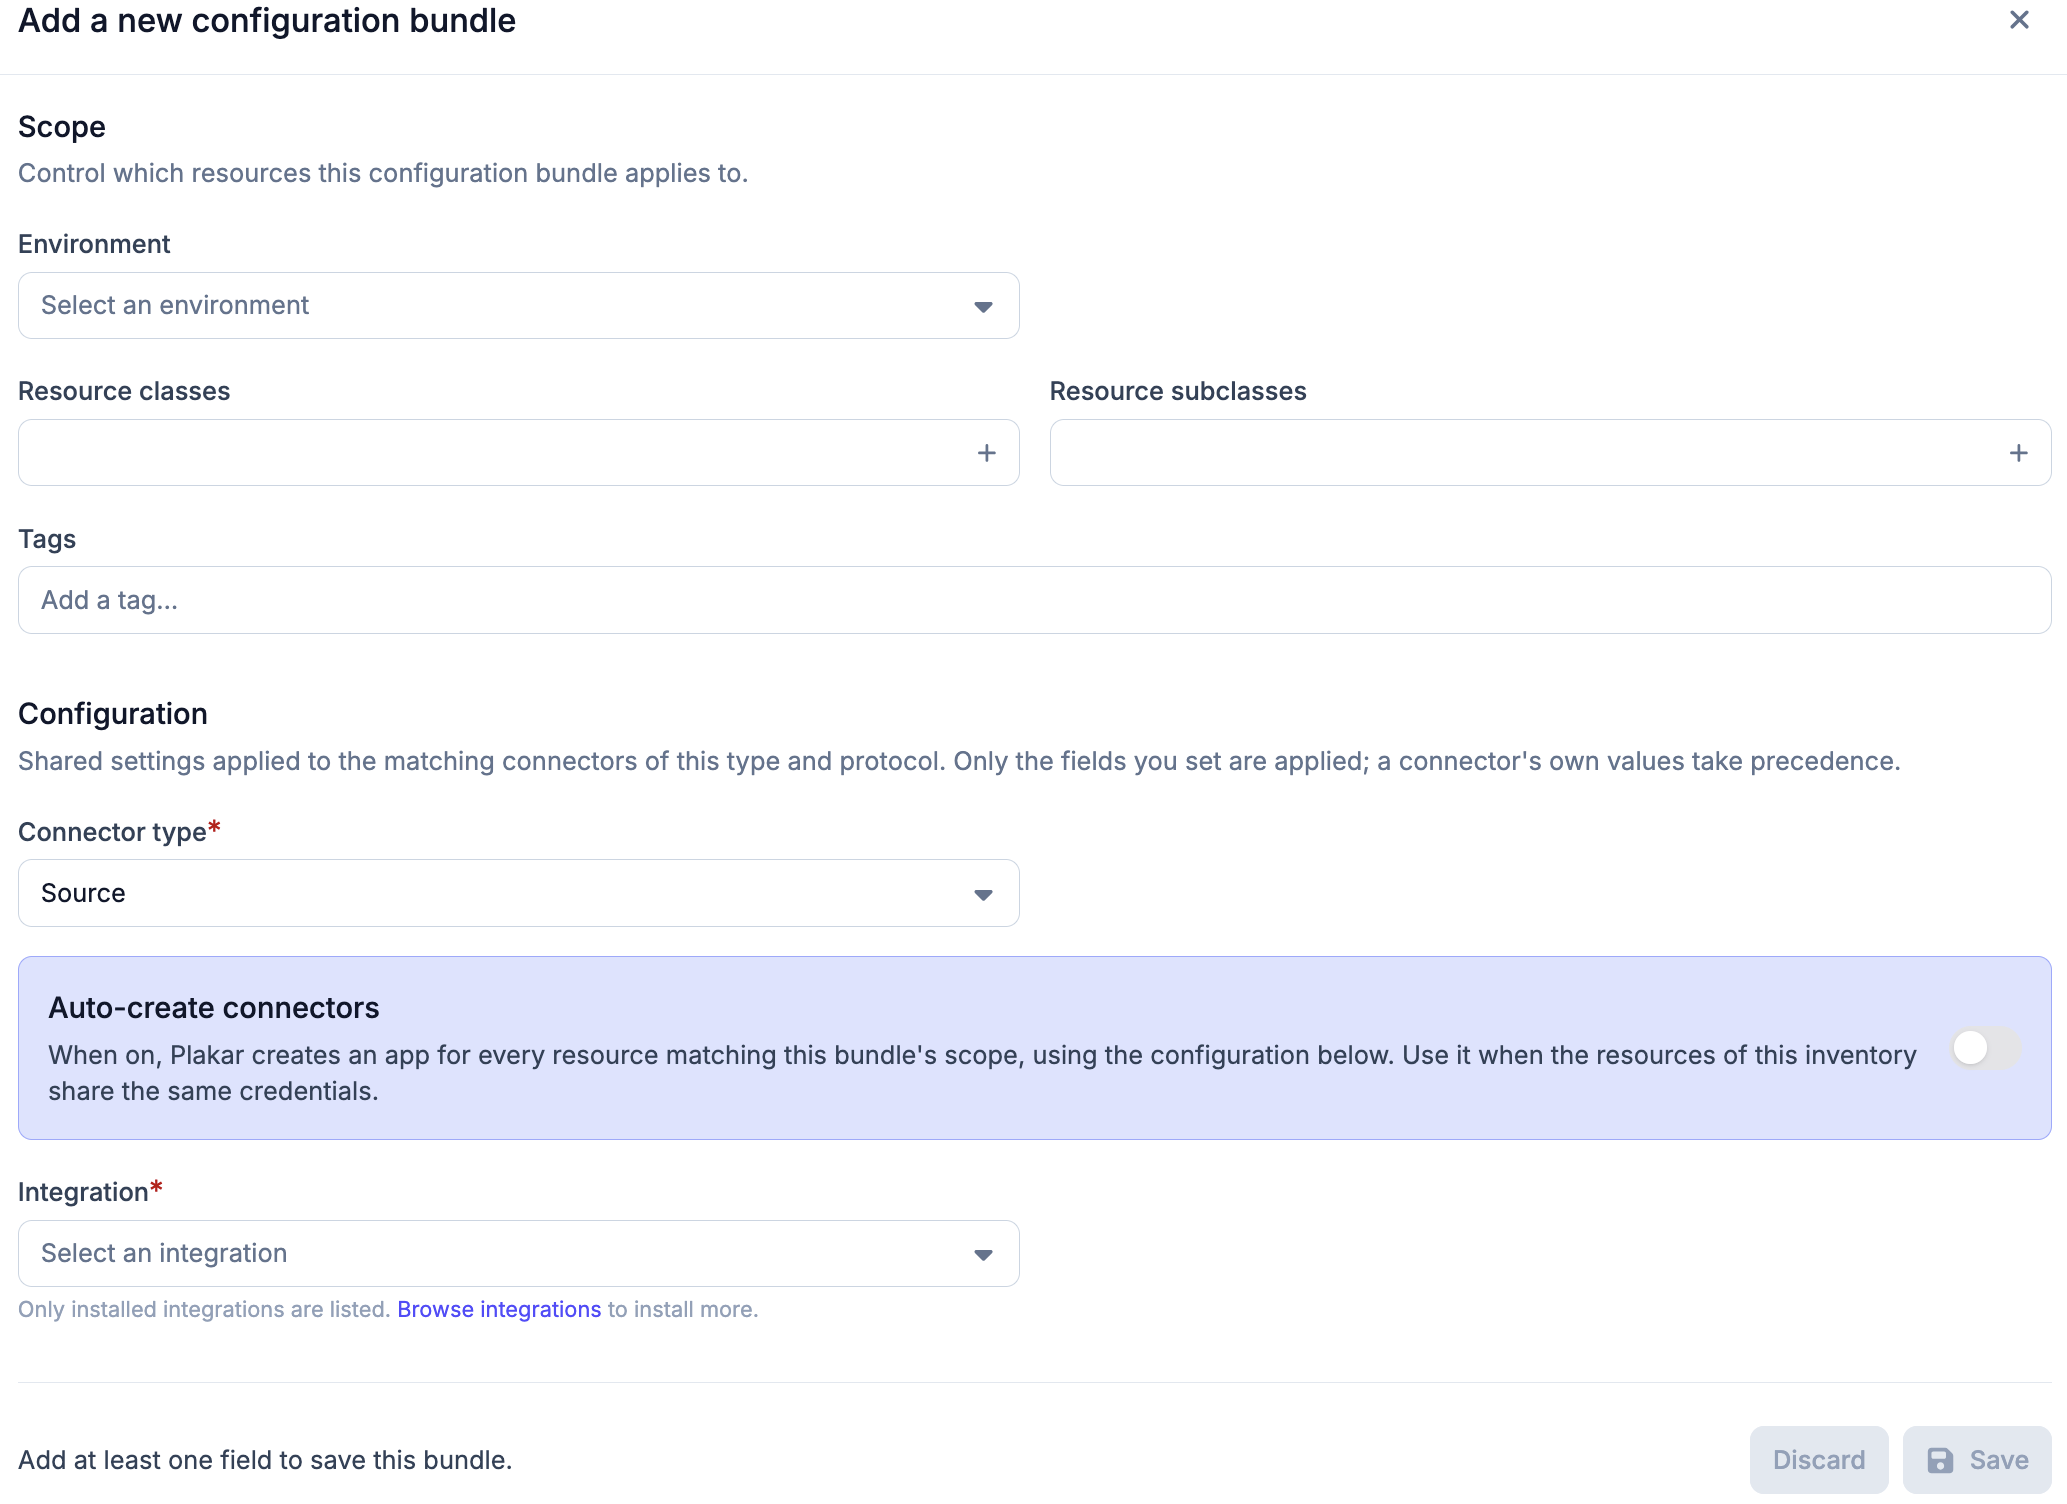
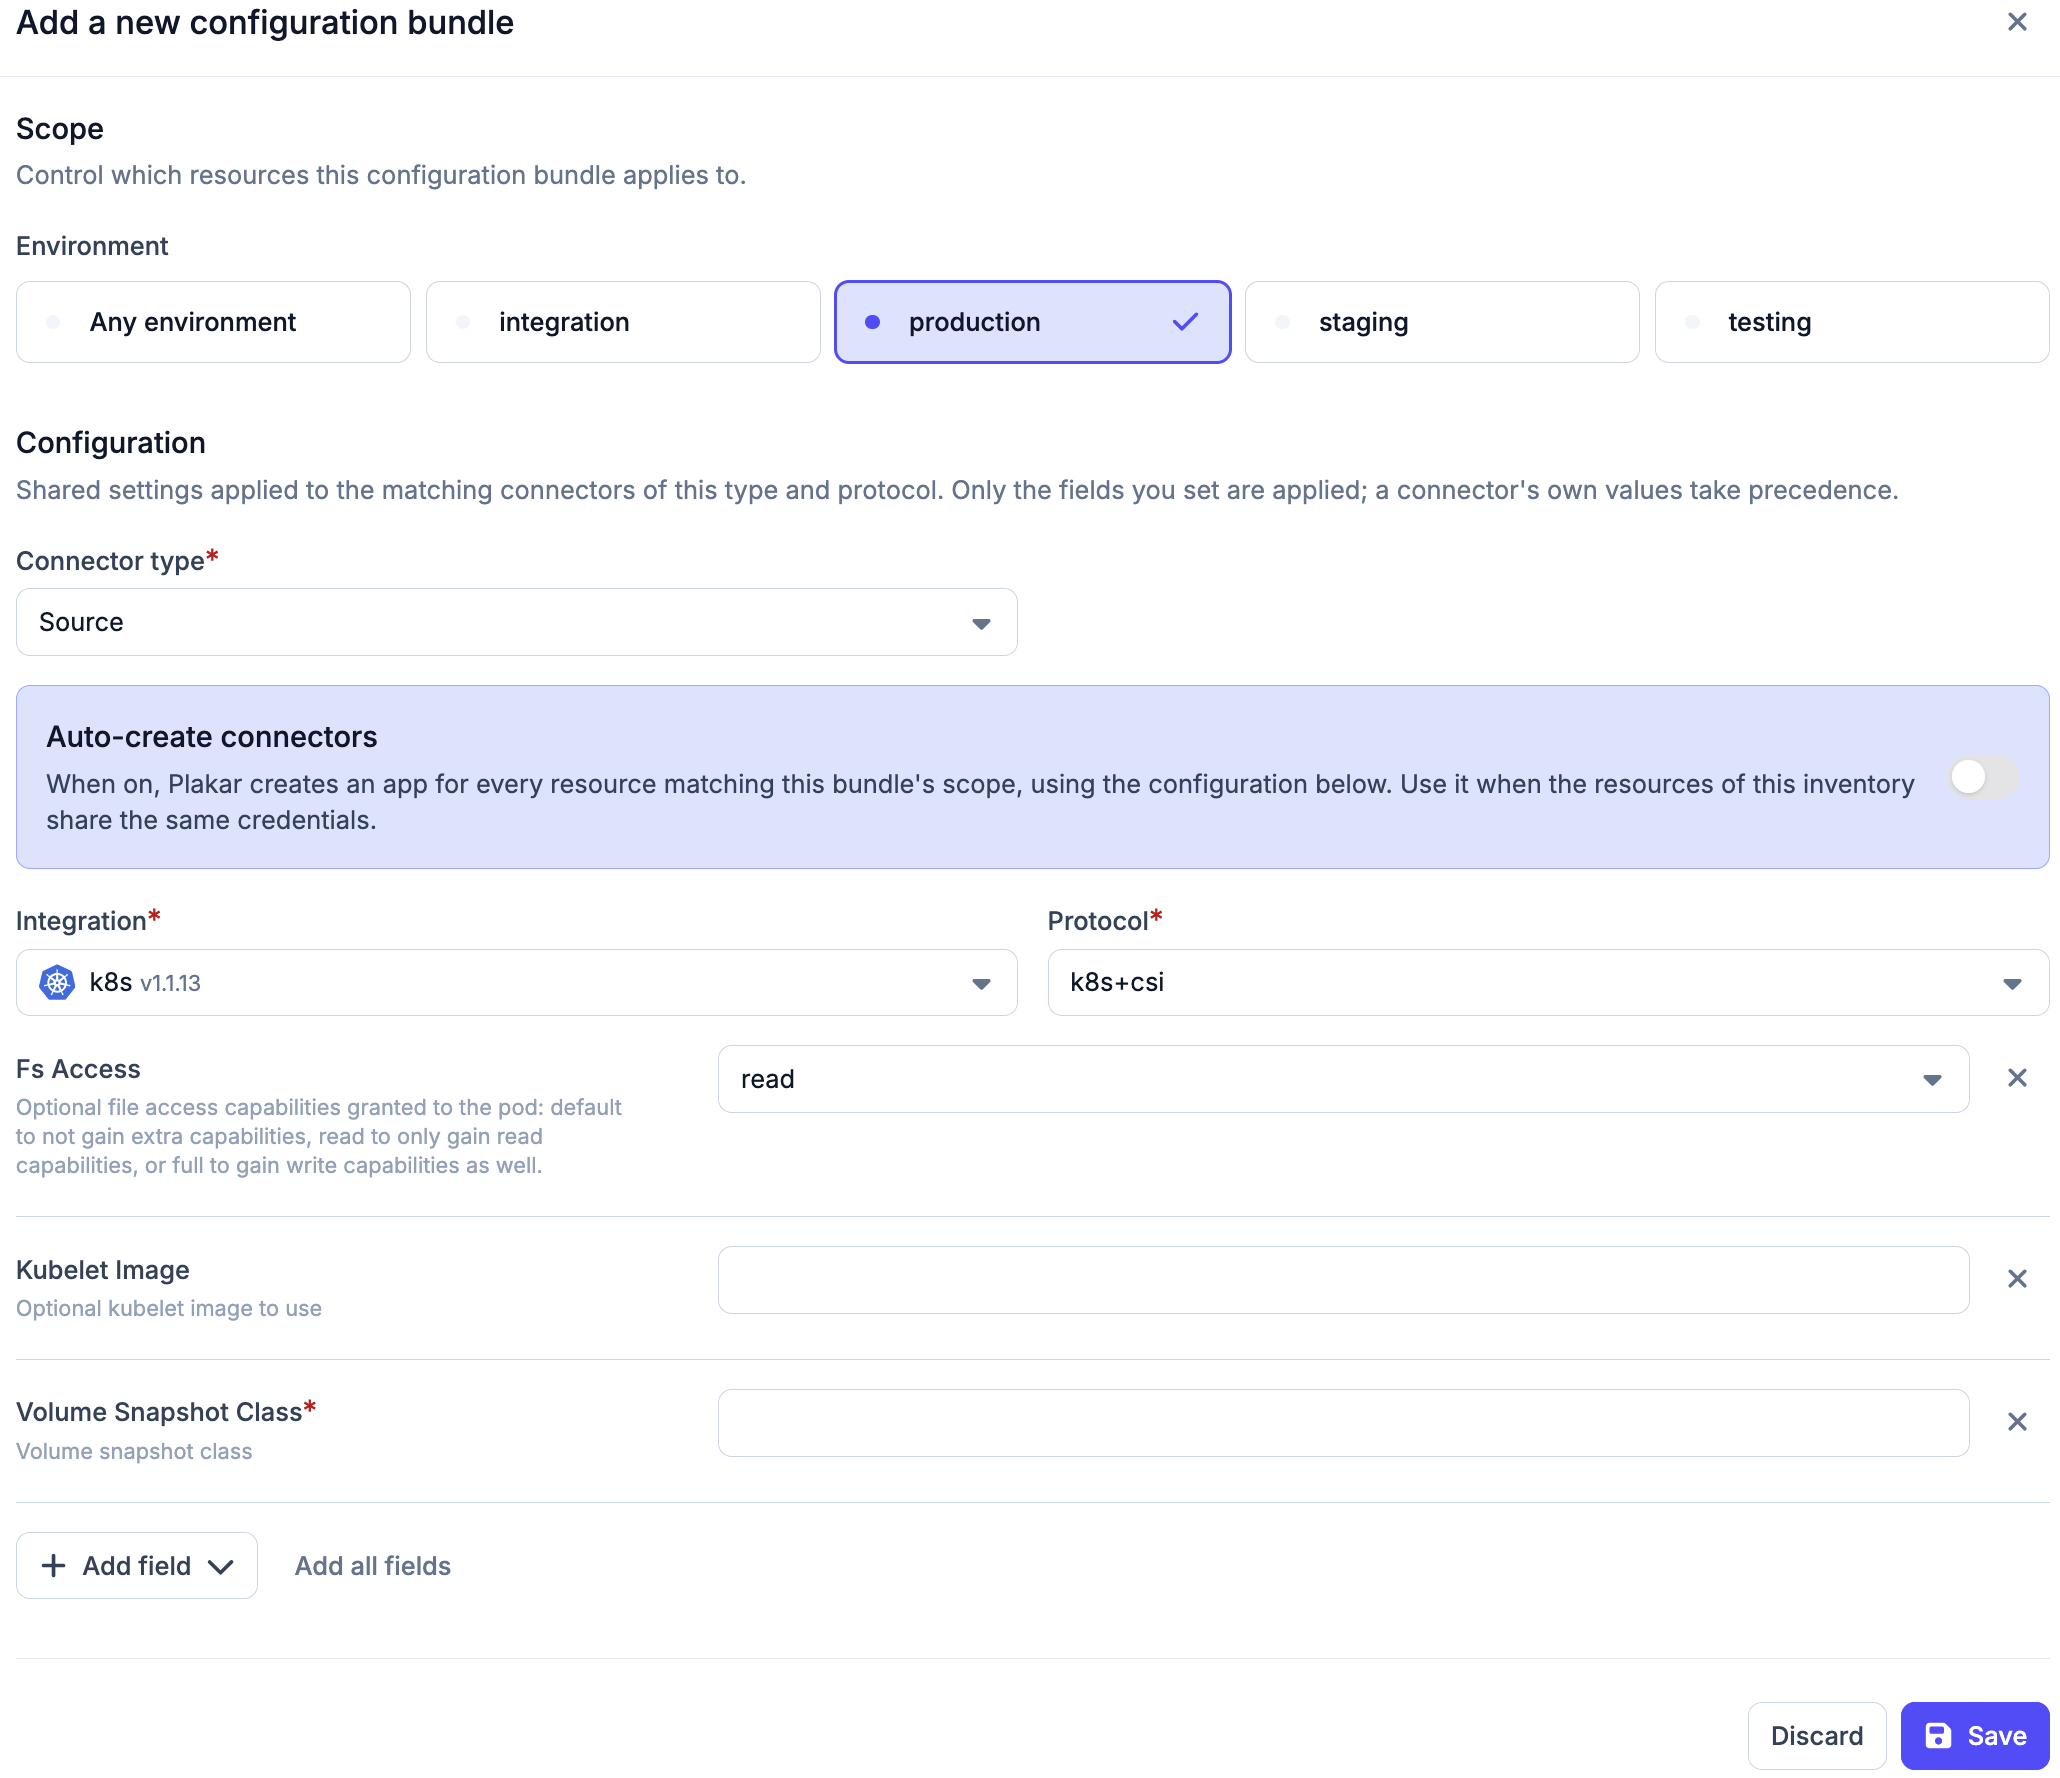
update inventory config bundles docs

diff --git a/content/docs/control-plane/inventories/configuration-bundles.md b/content/docs/control-plane/inventories/configuration-bundles.md
@@ -17,9 +17,8 @@ set up on one of those resources, the fields declared in the bundle are applied
 to it, so they do not have to be entered again for every app.
 
 For example, an AWS inventory might discover 20 S3 buckets that all use the same
-access key and secret key. A single bundle on that inventory, scoped to the
-`Object Storage` class, declares those credentials once, and every app set up on
-one of the buckets receives them.
+access key and secret key. A single bundle on that inventory declares those
+credentials once, and every app set up on one of the buckets receives them.
 
 A bundle applies only to resources of the inventory it belongs to. Bundles are
 managed from the **Configuration bundles** tab of the inventory, and what can be
@@ -28,37 +27,25 @@ held in the organization the inventory belongs to.
 
 ![Inventory configuration bundles](../images/config-bundle.png)
 
-## Matching resources
+## Scope and fields
 
 The scope of a bundle determines which resources of the inventory it applies to.
-Without any filter, a bundle applies to every resource. Each filter narrows the
-scope, and a resource must match all of them to receive the bundle:
-
-- **Environment**: resources with the selected environment.
-- **Resource classes**: resources of the selected classes, such as `Database` or
-  `Object Storage`.
-- **Resource subclasses**: resources of the selected subclasses, such as `MySQL`
-  or `S3`, within the selected classes.
-- **Tags**: resources that carry the listed tags. Managed inventories discover
-  tags from the provider. Self-managed inventories take them from the resource
-  definition, as described in
-  [adding resources](../self-managed/#adding-resources).
-
-![Creating a configuration bundle](../images/creating-config-bundle.png)
-
-## Bundle fields
+It is set by the **Environment** of the bundle. With **Any environment**
+selected, the bundle applies to every resource of the inventory. With a specific
+environment selected, it applies only to resources in that environment.
 
 A bundle targets one kind of app, set by its **Connector type**: `Source`,
 `Store` or `Destination`. It also targets one integration and, when the
-integration has several, one protocol. The bundle applies to apps of that type,
-integration and protocol on the resources in its scope.
+integration has several, one protocol. Only installed integrations can be
+selected. The bundle applies to apps of that type, integration and protocol on
+the resources in its scope.
 
 The fields of a bundle are chosen from the fields of the selected integration
 and protocol, either one at a time or all at once. A bundle only sets the fields
 it contains. Every other field is left as each app defines it, and a value set
 on the app itself takes precedence over the bundle.
 
-![Filling in configuration bundle fields](../images/config-bundle-fields.png)
+![Creating a configuration bundle](../images/creating-config-bundle.png)
 
 ## Applying a bundle to apps
 

diff --git a/content/docs/control-plane/guides/automated-backups.md b/content/docs/control-plane/guides/automated-backups.md
@@ -116,10 +116,9 @@ connectors** enabled creates a source app for every resource in its scope, using
 the configuration it holds.
 
 Create a bundle on the inventory, with **Source** as its connector type, the
-integration and protocol of the resources to protect, and a scope that selects
-them, for example the `Object Storage` class. The bundle must supply every field
-the integration requires, such as the credentials, otherwise no app is created.
-See
+integration and protocol of the resources to protect, and the environment they
+belong to, or **Any environment**. The bundle must supply every field the
+integration requires, such as the credentials, otherwise no app is created. See
 [auto-creating apps](../../inventories/configuration-bundles#auto-creating-apps).
 
 Each source app takes its **Environment** and **Data Class** from the tags of

diff --git a/content/docs/control-plane/resources/_index.md b/content/docs/control-plane/resources/_index.md
@@ -131,10 +131,9 @@ resource exists. It also has a name, a class, a subclass and tags.
 The `class` describes the general category the resource belongs to, while the
 `subclass` identifies the specific implementation or provider. Plakar Control
 Plane uses this classification to determine which integrations are compatible
-with a resource. [Configuration bundles](../inventories/configuration-bundles)
-select resources by class and tags, and [policies](../compliance/policies) can
-narrow their scope by tag. In a managed inventory, the class and tags are
-discovered from the provider and cannot be edited.
+with a resource. [Policies](../compliance/policies) can narrow their scope by
+tag. In a managed inventory, the class and tags are discovered from the provider
+and cannot be edited.
 
 ## Endpoints and attributes
 

diff --git a/content/docs/control-plane/inventories/self-managed.md b/content/docs/control-plane/inventories/self-managed.md
@@ -41,9 +41,7 @@ When adding a resource manually, you need to provide:
   identifier for the resource, and cannot be changed later.
 - **Class** and **Subclass**: Used to classify the resource, for example
   `Object Storage` as the class and `S3` as the subclass for an S3 bucket.
-- **Tags**: tags used by [policies](../compliance/policies) and
-  [configuration bundles](configuration-bundles#matching-resources) to filter
-  resources
+- **Tags**: tags used by [policies](../compliance/policies) to filter resources
 - **Endpoint**: Required. The address used to reach the resource, such as a
   hostname or IP address. A resource can have several endpoints.
 - **Exclude from backup coverage**: Omits the resource from protection status
